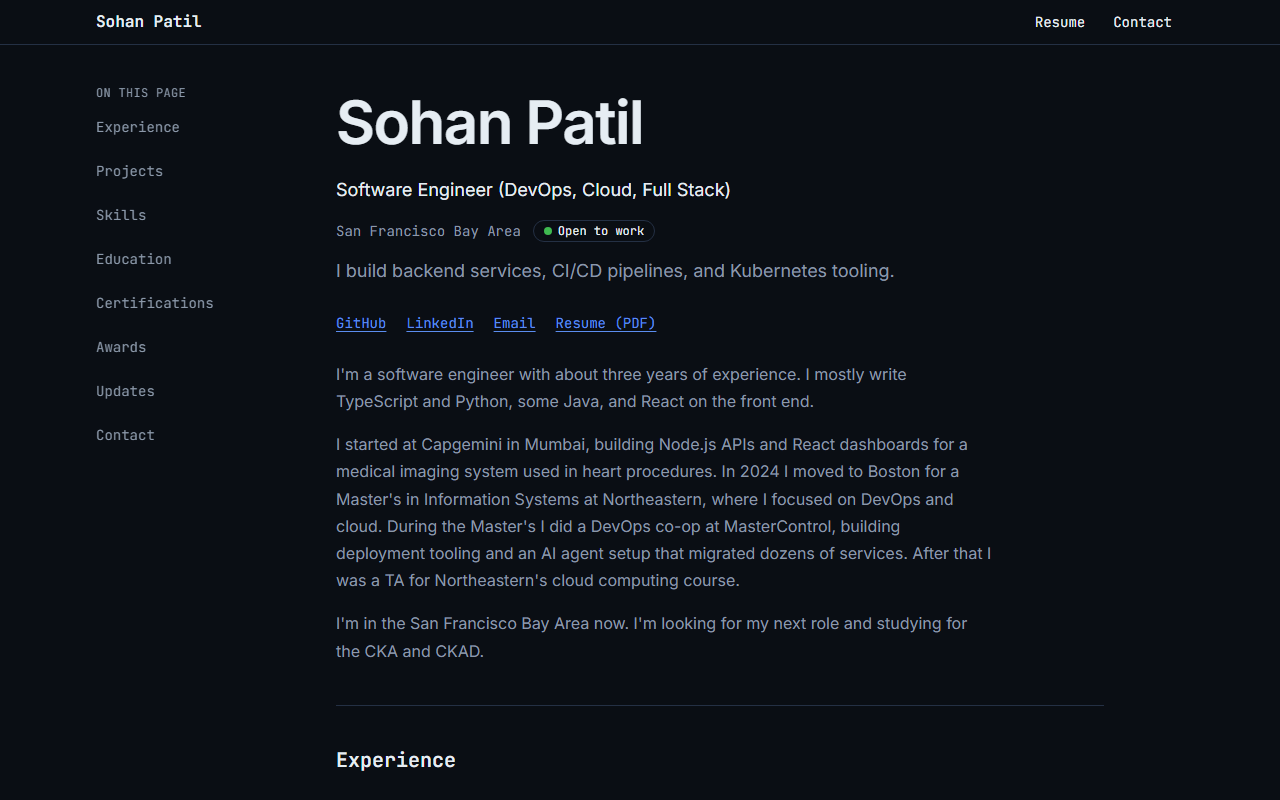
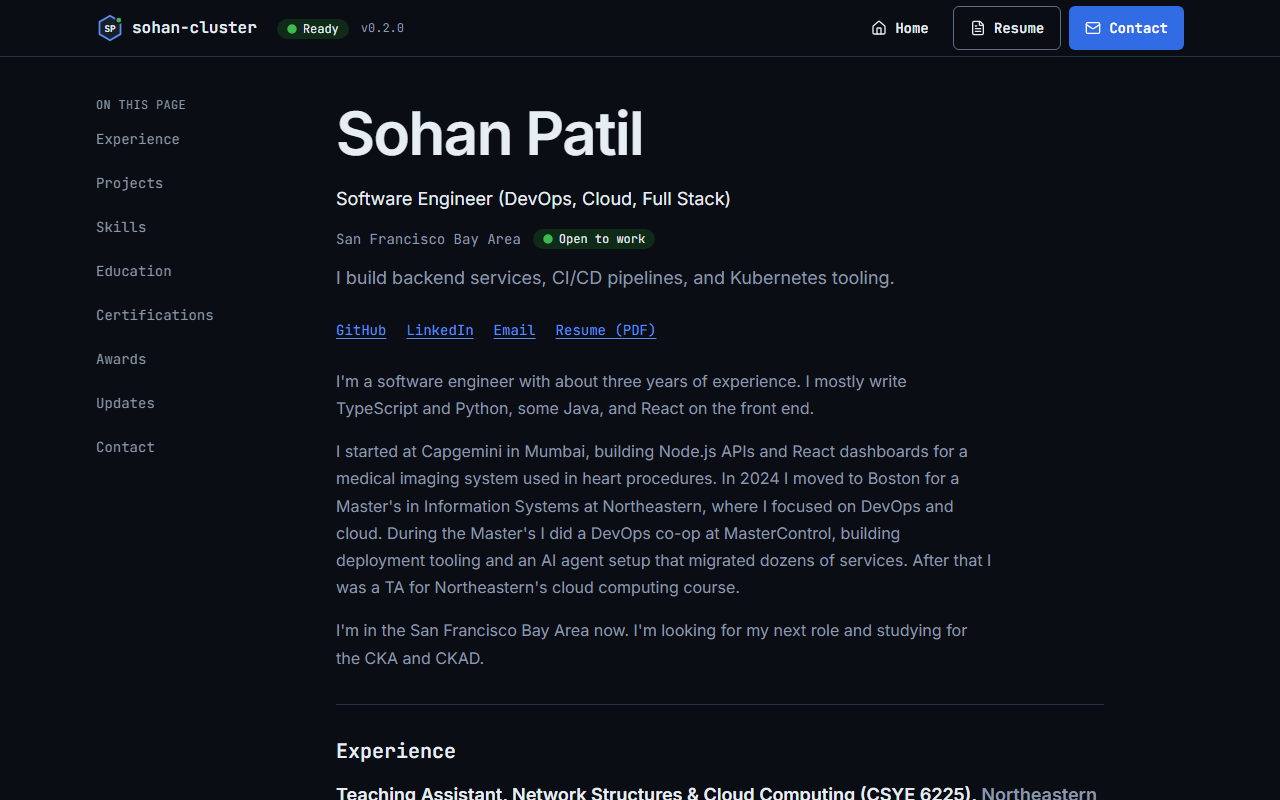
docs(docs): close out stage 2 in status, plan, and readme (#67)
Stage 2 is done, so STATUS gets the sign-off (what shipped, Lighthouse and e2e results, links) and a
retrospective, the plan is ticked, and the README describes the new top bar, the flagged dashboard,
the updated architecture and folders, with fresh screenshots of the plain view and the dashboard.

SPEC gains two rules agreed in review: "One playground" (the cluster view never leaves the page;
chips, table names, nodes, and pods run in place from Stage 3, guarded by an e2e test) and a Stage 4
requirement that nodes are sized to their pods, so the placeholder cards' empty boxes go away.

Closes #56

diff --git a/docs/STATUS.md b/docs/STATUS.md
@@ -4,45 +4,46 @@ _Last updated: 2026-11-25_
 
 ## Current stage
 
-**Stage 2 — Design system and layout shell: planning.** v0.2.0 is live. Design direction accepted in
-[ADR 0002](adr/0002-design-direction-tool-and-game.md) ("the UI is the tool, the cluster is the game").
-Design: [`plans/stage-2-design.md`](plans/stage-2-design.md) (approved 2026-11-25). Plan:
-[`plans/stage-2.md`](plans/stage-2.md) (waiting for approval) ·
-[milestone](https://github.com/roarceus/roarceus.github.io/milestone/3) (#49–#56). Post-1.0 Stages 8 to 10
-are on the roadmap (SPEC §11).
+**Stage 2 — Design system and layout shell: done.** It ships as v0.3.0 when Sohan merges the release PR
+(#59). Next is Stage 3, the terminal engine. Direction: [ADR 0002](adr/0002-design-direction-tool-and-game.md)
+("the UI is the tool, the cluster is the game"). Design: [`plans/stage-2-design.md`](plans/stage-2-design.md).
+Plan: [`plans/stage-2.md`](plans/stage-2.md), all tasks ticked. Post-1.0 Stages 8 to 10 are on the roadmap (SPEC §11).
 
-## Stage 1 sign-off
+## Stage 2 sign-off
 
-- **Shipped:** content schemas, query helpers, and integrity checks (#41); all portfolio content with a
-  content review (#43); the plain portfolio at `/plain/` and the home hero (#44); 16 project pages, updates,
-  and an RSS feed (#45); a contact form through Web3Forms that also works without JavaScript (#46); page
-  metadata, a share image, JSON-LD, a production-only sitemap, robots.txt, and the kubectl 404 page (#47);
-  Lighthouse on every page type and this sign-off (#48).
-- **Checks:** Lighthouse mobile 100/100/100/100 on `/`, `/plain/`, a project page, and `/updates/`; the 404
-  page 100/100/100 (SEO is 63 by design: it's noindex). No sideways scroll on 7 page types at 320, 375, 768,
-  1280, and 1920px. e2e passes on Chromium, Firefox, and WebKit across phone, tablet, and desktop sizes.
-  Sohan checked the plain view on iOS Safari. No `TODO(sohan)` left in `src/`.
-- **Links:** last preview https://roarceus.github.io/pr-preview/pr-47/ · release PR #42 (v0.2.0).
+- **Shipped:** the design direction ADR (#57); design tokens with AA contrast and scene-scope checks (#58);
+  UI components (#60); the top bar, site mark, and Lucide icons (#61); a shorter plain view with jump chips
+  and expanders (#62); cluster data helpers and feature flags (#64); the dashboard shell on `/` behind the
+  `clusterDashboard` flag (#65), widened to 1920px with the top bar lined up (#66); a WebKit heading
+  contrast fix (#63).
+- **Checks:** Lighthouse mobile 100/100/100/100 on `/` (both builds), `/plain/`, a project page, and
+  `/updates/`; the 404 page 100/100/100 (SEO 63 by design: noindex). e2e passes on Chromium, Firefox, and
+  WebKit at phone, tablet, and desktop sizes, plus the `@dashboard` specs against the flag build and a width
+  check at 1280, 1920, and 2560px. Previews checked at 375 and 1920px.
+- **Spec updates:** "One playground" (SPEC §4): the cluster view never leaves the page; chips and names run
+  in place from Stage 3. Stage 4 replaces the placeholder cards with nodes sized to their pods.
+- **Links:** last preview https://roarceus.github.io/pr-preview/pr-66/ · release PR #59 (v0.3.0) ·
+  screenshots in `assets/`.
 
 ## Retrospective
 
-- **Went well:** tests first caught real bugs before review (the hidden live region, the 404 canonical);
-  the content review with Sohan meant no invented facts; a static test keeps AI-style punctuation out of the
-  copy; local preview-base builds proved canonical, RSS, and sitemap stay on production.
-- **Didn't:** one push went out with a failing local test (`ec38b8f`), fixed in the next commit. Changing
-  site-wide head tags broke two CI consumers no unit test covers (the smoke asset check and Lighthouse's
-  SEO score on noindex pages). Firefox logs failed requests differently from Chromium. Astro 7's new
-  Markdown processor silently ignores rehype plugins. Internal tool names once reached a PR body.
-- **Change next stage:** only push when `pnpm check` and the affected e2e exit 0 in the same command; when
-  changing `<head>` or routes, run smoke against a local preview-base build and `pnpm lhci` before pushing;
-  check PR bodies against the public-names rule before posting.
+- **Went well:** the design proposal and review before code meant no layout rework; the contrast test caught
+  two failing pairs (primary hover, selected scene) before review; building a second, flagged site in CI let
+  the dashboard ship to previews without touching production.
+- **Didn't:** the WebKit heading flake failed 19 of 20 CI runs, hidden by retries, before anyone looked.
+  Phone smoke failed only on the preview because the test counted a hidden region as missing. The new
+  `dist-dashboard` folder got scanned by lint and typecheck. A width cap left wide empty gutters at 1920px,
+  found by Sohan, not by tests.
+- **Change next stage:** read retried test logs, not just the green check; run smoke against a local flag
+  build when changing what it checks; check layouts at 1920 and 2560px before opening a UI PR.
 
 ## Next steps
 
-1. Sohan: approve the Stage 2 plan; then PRs 2 to 8 in order (`plans/stage-2.md`).
-2. Since v0.2.0 shipped: submit the sitemap in Google Search Console; check the share card in a link inspector
-   (runbook: `docs/runbooks/share-image.md`); set up the uptime monitor (M10).
-3. Decide on Renovate's queued TypeScript 7 PR (fails until `typescript-eslint` supports TS 7).
+1. Sohan: merge the release PR (#59) for v0.3.0, then check production (dashboard must stay off).
+2. Stage 3 plan: the terminal engine, following "One playground" (SPEC §4, §7).
+3. Carried over: submit the sitemap in Google Search Console; check the share card in a link inspector
+   (runbook: `docs/runbooks/share-image.md`); set up the uptime monitor (M10); decide on Renovate's
+   queued TypeScript 7 PR.
 
 ## Open questions
 
@@ -51,9 +52,7 @@ are on the roadmap (SPEC §11).
 
 ## Known issues
 
-- WebKit on the Linux CI runners kept flagging page `h1`s for contrast (axe read the inherited text as
-  black) in 19 of 20 runs; retries hid it. `fix/webkit-heading-contrast-flake` gives headings an explicit
-  color and makes contrast failures print the measured and computed colors.
+- The no-JS contact form post flaked once on WebKit at 320px (not seen in 25 runs before). Watching it.
 - GitHub Pages serves only the root `404.html`, so a missing page under a PR preview shows production's
   404 page.
 - Scorecard shows 8 findings (repo age, solo reviews, fuzzing, best-practices badge, early commits without

diff --git a/README.md b/README.md
@@ -9,14 +9,20 @@ switch to a plain, recruiter-friendly view.
 
 **Live:** https://roarceus.github.io/
 
-![The plain view: name, title, location, open-to-work status, links, and an on-this-page sidebar](docs/assets/screenshot.png)
+![The plain view: the top bar, name, title, location, open-to-work status, links, and an on-this-page sidebar](docs/assets/screenshot.png)
+
+Coming next, already in PR previews behind a flag: the cluster dashboard on `/`.
+
+![The cluster dashboard: three career nodes with their project pods, unscheduled pods, and the details of the selected role](docs/assets/screenshot-dashboard.png)
 
 ## Status
 
-**v0.2.0 is live: Stage 1 (content and plain view) is done.** It added the content, the full plain portfolio
-at `/plain/`, a home hero, project pages, updates and an RSS feed, a contact form, and search and share
-metadata. Now planning Stage 2, the design system and layout shell, under the direction in
-[ADR 0002](docs/adr/0002-design-direction-tool-and-game.md): the UI is the tool, the cluster is the game. Progress:
+**Stage 2 (design system and layout shell) is done and ships as v0.3.0.** It added the design tokens
+(AA-checked), UI components, a top bar on every page, a shorter plain view (jump chips and expanders), and
+the cluster dashboard shell on `/` (map placeholder, detail panel, terminal dock, phone cluster mode). The
+dashboard stays behind the `clusterDashboard` flag, on in PR previews and off in production, until the
+terminal (Stage 3) and the map (Stage 4) make it real. Direction: [ADR 0002](docs/adr/0002-design-direction-tool-and-game.md),
+the UI is the tool, the cluster is the game. Progress:
 [`docs/STATUS.md`](docs/STATUS.md) · [project board](https://github.com/users/roarceus/projects/1) ·
 [changelog](CHANGELOG.md) (from v0.1.0).
 
@@ -28,7 +34,7 @@ Planned per stage ([SPEC §11](docs/SPEC.md)):
 | ---------------------------- | ------- | ------------------------------------------------------------------------------------------------------------- |
 | 0 — Foundation               | 0.1.0   | Scaffold, quality gates, CI, PR previews, releases, placeholder page                                          |
 | 1 — Content and plain view   | 0.2.0   | Schema-validated content, full plain portfolio, project pages, updates + RSS, contact form, SEO, sitemap, 404 |
-| 2 — Design system and layout | 0.3.0   | Tokens, components, dashboard layout, mobile layout                                                           |
+| 2 — Design system and layout | 0.3.0   | Tokens, components, top bar, shorter plain view, dashboard shell (flagged), mobile cluster mode               |
 | 3 — Terminal engine          | 0.4.0   | `kubectl`-style commands, autocomplete, history, clickable output                                             |
 | 4 — Cluster visualization    | 0.5.0   | Interactive map of nodes (roles) and pods (projects), synced with the terminal                                |
 | 5 — Boot sequence and polish | 0.6.0   | Boot animation, transitions, OG images, tap-first mobile cluster                                              |
@@ -52,10 +58,12 @@ flowchart LR
     pages["pages/<br/>routes"] --> layouts["layouts/"]
     pages --> components["components/<br/>Astro + React islands"]
     layouts --> components
-    components --> lib["lib/<br/>framework-free TS<br/>(url, content, commands)"]
+    components --> recipes["components/ui/recipes.ts<br/>shared class recipes"]
+    components --> lib["lib/<br/>framework-free TS<br/>(url, content, cluster data, kubectl helpers)"]
     layouts --> lib
     lib --> types["types/"]
-    config["config/<br/>site, build info, flags"]
+    config["config/<br/>site, build info, feature flags"]
+    styles["styles/<br/>tokens.css (design tokens)"] -.->|CSS variables| components
     pages --> config
     layouts --> config
   end
@@ -114,21 +122,22 @@ an unknown flag name fails the build.
 docs/           SPEC, STATUS, plans, ADRs, runbooks, postmortems, content guide
 public/         served as-is: favicon, resume, share image (og-image.png), .nojekyll
 src/
-  components/   layout/ (top bar and site mark, footer, SEO head tags), plain/ (plain view sections), ui/ (button, chip, panel,
+  components/   cluster/ (dashboard stage and detail panel), layout/ (top bar and site mark, footer, bottom sheet, SEO head
+                tags), plain/ (plain view sections and jump chips), terminal/ (terminal dock), ui/ (button, chip, panel,
                 kubectl table, expander, status pill, tags, links; shared class recipes in recipes.ts)
   config/       site metadata, build info (version + commit), feature flags
   content/      portfolio content (YAML + Markdown); schemas registered in content.config.ts
   layouts/      page layouts (BaseLayout sets meta tags and the CSP)
-  lib/content/  Zod schemas, query helpers, integrity check (how components read content)
+  lib/content/  Zod schemas, query helpers, integrity check, cluster data (nodes, pods, kubectl rows)
   lib/seo/      share metadata and JSON-LD helpers
-  lib/utils/    framework-free helpers: url() for the base path, date formatting, contrast ratios
+  lib/utils/    framework-free helpers: url() for the base path, dates, contrast ratios, kubectl ages and names, flags
   pages/        routes (plus rss.xml, robots.txt, and the 404 page)
   styles/       tokens.css (design tokens, AA-checked by tokens.test.ts; --scene-* only for the cluster
                 scene, ADR 0002) and global.css
 tests/
   e2e/          Playwright specs (fail on any console error)
   smoke/        post-deploy checks against a live URL
-  static/       repo-wide checks (hardcoded root paths)
+  static/       repo-wide checks (hardcoded root paths, scene tokens only in the cluster and game folders)
   visual/       screenshot baselines (revisited in Stage 7)
 ```
 

diff --git a/docs/SPEC.md b/docs/SPEC.md
@@ -149,6 +149,13 @@ The cluster experience on mobile is tap-first; typing is optional.
 
 **No-JS:** `/` must show the hero and links to all sections without JavaScript.
 
+**One playground:** with JavaScript on, the cluster view never sends visitors to another page. Command chips,
+table names, map nodes, and pods run their command in place: output in the terminal, details in the detail
+panel (the bottom sheet on phones). The URL follows along (for example `#pod/<slug>`) through the History API,
+so Back and Forward step through what was viewed and links can be shared. Only the `Plain view` toggle and
+`kubectl config use-context plain` go to `/plain/`, plus real outbound links (`port-forward`, Resume). Chips
+and names stay real links underneath, so without JavaScript they still reach the plain view.
+
 ### Responsive and mobile requirements
 Mobile is a first-class target, not an afterthought. Build mobile-first and scale up.
 
@@ -304,6 +311,8 @@ Collections (adjust fields as needed, but keep this shape):
 - Clickable output: names in tables open details; links are real links.
 - Command chips under the input (`get experience`, `get pods -n projects`, `top skills`, `help`); clicking runs the command visibly.
 - Clicking anything on the map types and runs the equivalent command in the terminal (shows visitors the CLI).
+- Nothing in the terminal or on the map loads a new page (see "One playground" in section 4); an e2e test
+  fails if clicking a chip, a table name, a node, or a pod navigates away.
 - Output region uses `aria-live="polite"`; input is a real labeled `<input>`; full keyboard support.
 
 ### Architecture
@@ -583,11 +592,14 @@ mobile layout. **Done when:** layout matches section 4 and 5 at desktop and mobi
 
 ### Stage 3 — Terminal engine → v0.4.0
 Parser, registry, all v1 commands (section 7), structured output renderer, history, autocomplete,
-chips, accessibility. **Done when:** every command works and is unit-tested; e2e covers the core ones.
+chips, accessibility. **Done when:** every command works and is unit-tested; e2e covers the core ones; chips
+and table names run in place without leaving `/` (section 4, "One playground").
 
 ### Stage 4 — Cluster visualization → v0.5.0
 SVG map of nodes and pods from content data, status colors, hover/selection, detail panel, two-way sync
-between map and terminal. **Done when:** everything in the map is clickable and keyboard reachable, and clicks echo commands in the terminal.
+between map and terminal. The map replaces the Stage 2 placeholder cards: each node is sized to its pods and
+the layout uses the space it has, so there are no empty boxes at any width from 768px to 2560px (a node
+with no pods is drawn small). **Done when:** everything in the map is clickable and keyboard reachable, and clicks echo commands in the terminal.
 
 ### Stage 5 — Boot sequence and polish → v0.6.0
 Boot animation (section 9), transitions, empty/loading/error states, OG images, mobile tap-first cluster mode.

diff --git a/docs/plans/stage-2.md b/docs/plans/stage-2.md
@@ -32,7 +32,7 @@ Vitest, Playwright and axe, Lighthouse CI.
 - `docs/SPEC.md` §3 (structure), §4 (IA, responsive), §5, §7 (nodes), §9 (pre-selected role), §11 Stage 2.
 - Rules: `CLAUDE.md`.
 
-**Status:** draft. It waits for Sohan's approval before any code. Issues #49 to #56 are on milestone Stage 2.
+**Status:** done (2026-11-25). PRs #57, #58, #60 to #66 merged; this wrap-up closes #56. v0.3.0 ships with release PR #59.
 
 ## Global Constraints
 
@@ -416,8 +416,8 @@ import.meta.env.PUBLIC_ENABLED_FLAGS)`. `isEnabled` stays the same.
 
 ### Task 8: Stage 2 wrap-up (PR 8)
 
-- [ ] README: features, the architecture diagram (tokens, recipes, cluster helpers), the flags section
+- [x] README: features, the architecture diagram (tokens, recipes, cluster helpers), the flags section
       (`PUBLIC_ENABLED_FLAGS`), the status line.
-- [ ] STATUS: sign-off with screenshots and links, plus a retrospective. Close the remaining stage
+- [x] STATUS: sign-off with screenshots and links, plus a retrospective. Close the remaining stage
       questions.
-- [ ] This plan ticked; then Sohan merges the release PR for v0.3.0.
+- [x] This plan ticked; then Sohan merges the release PR for v0.3.0.
